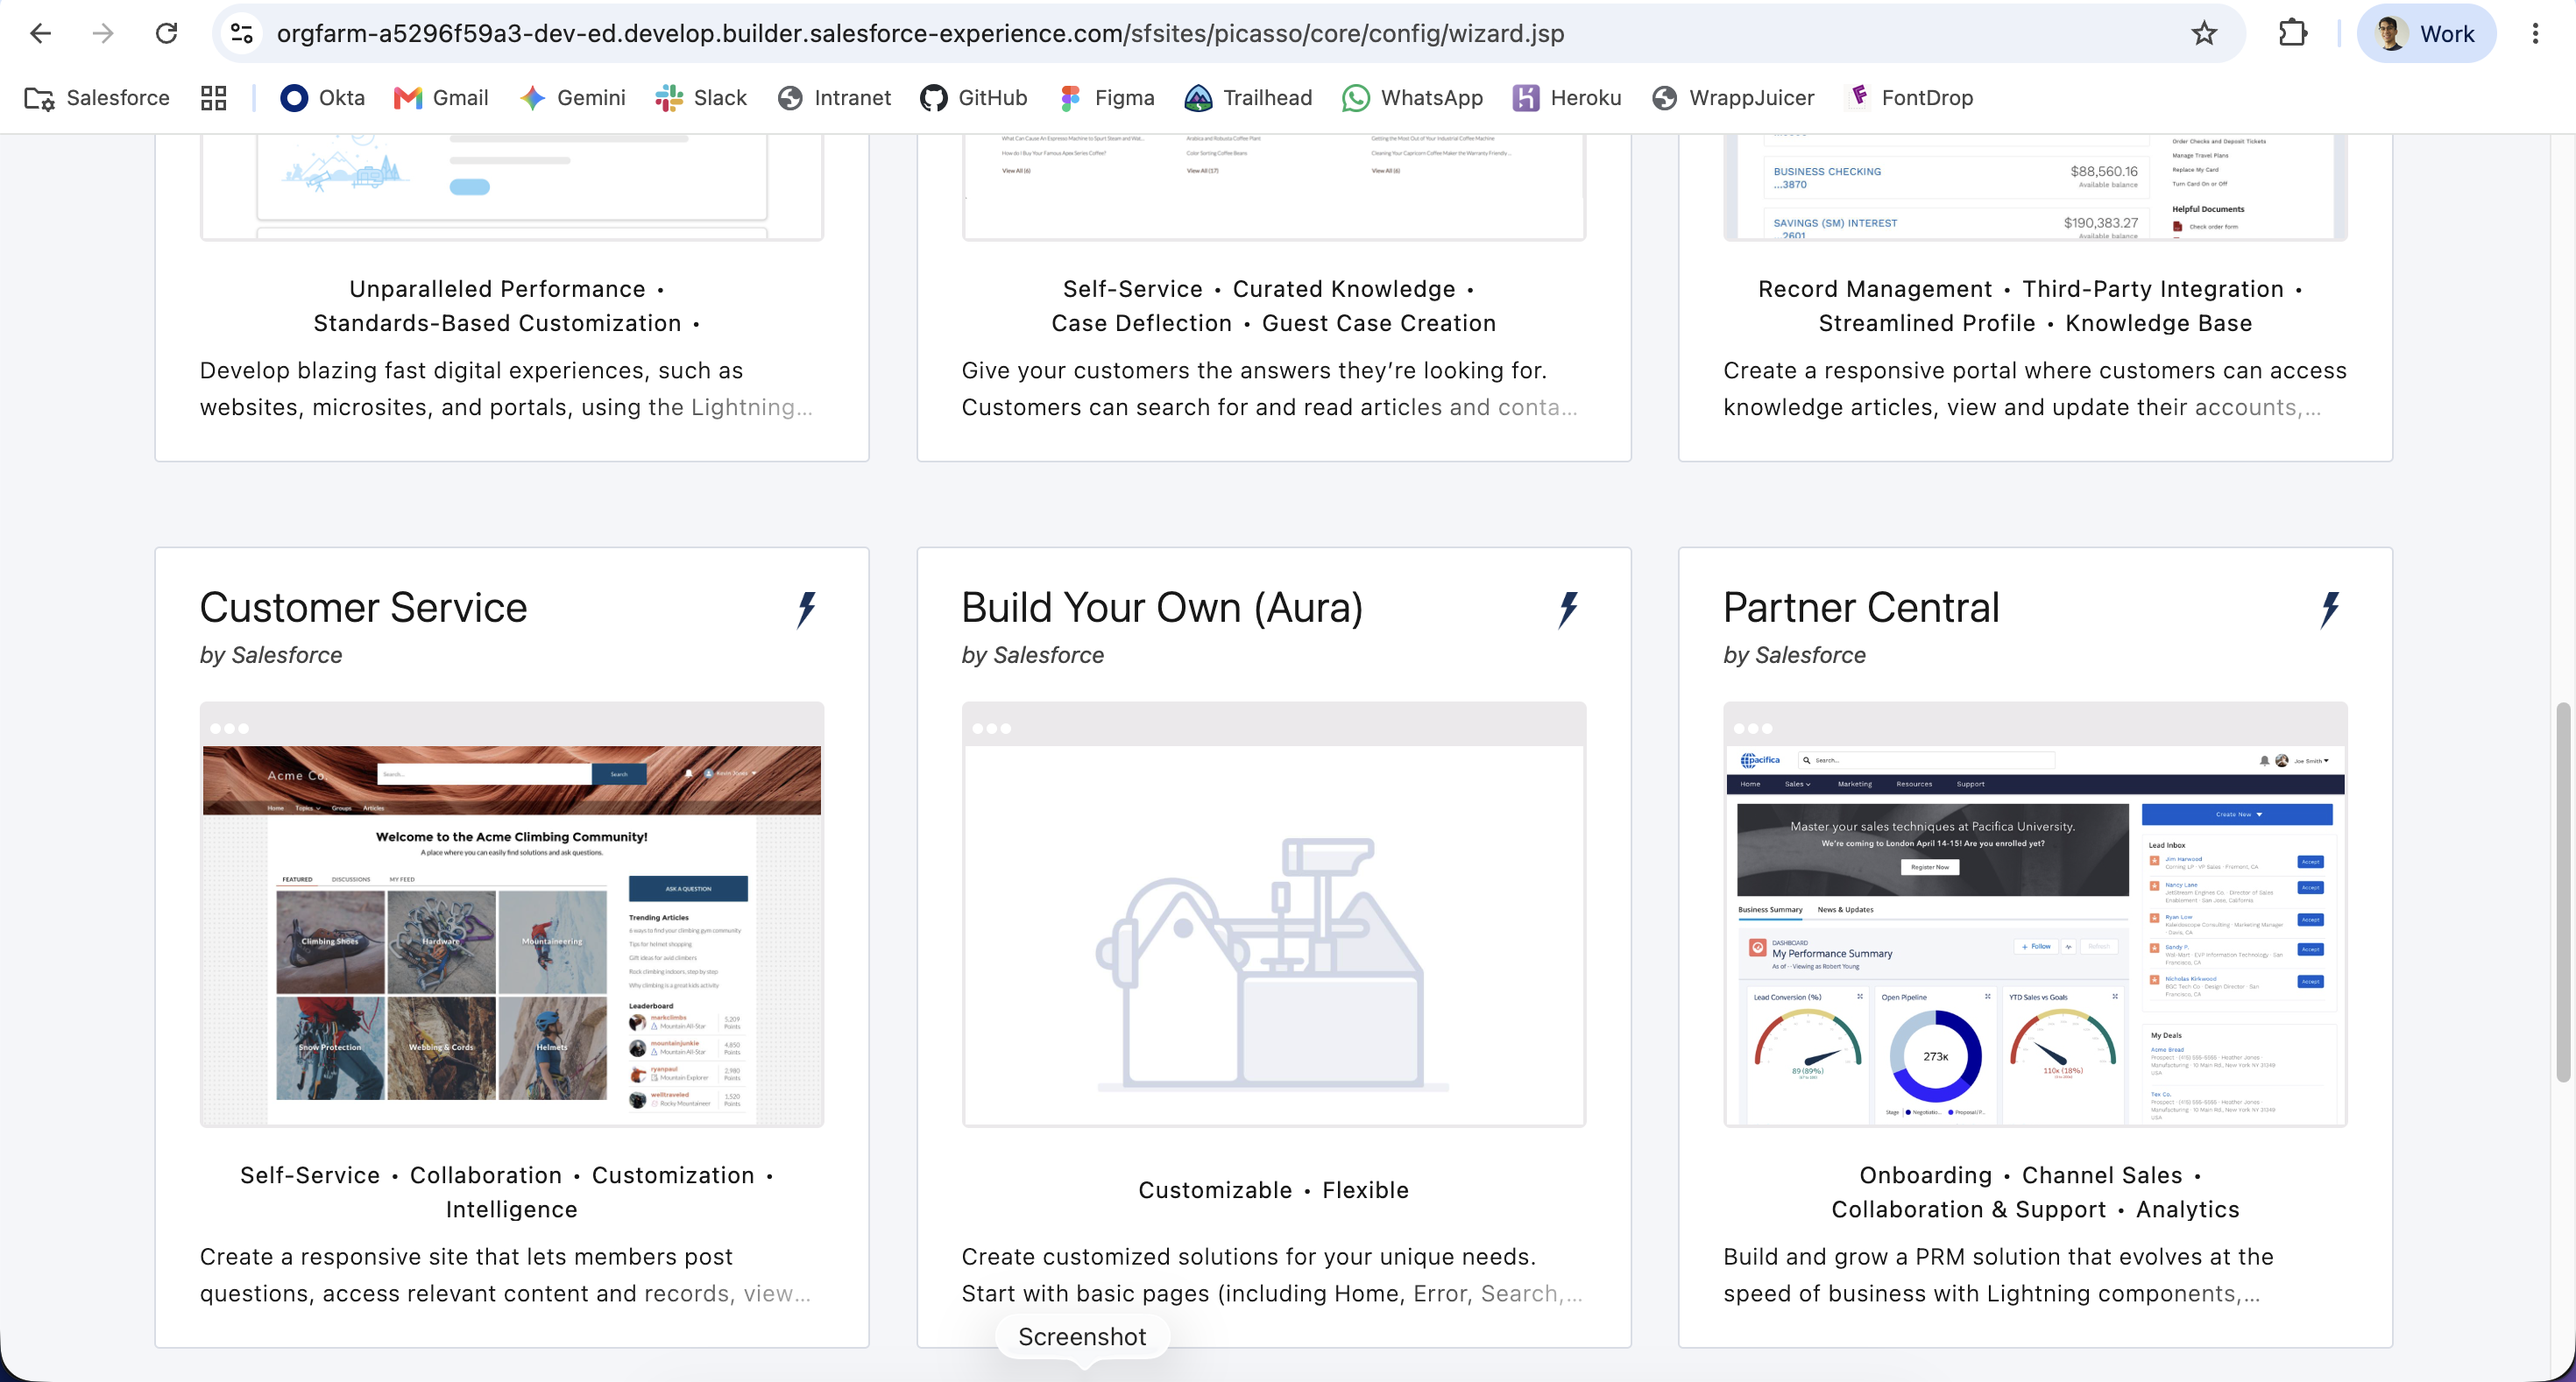
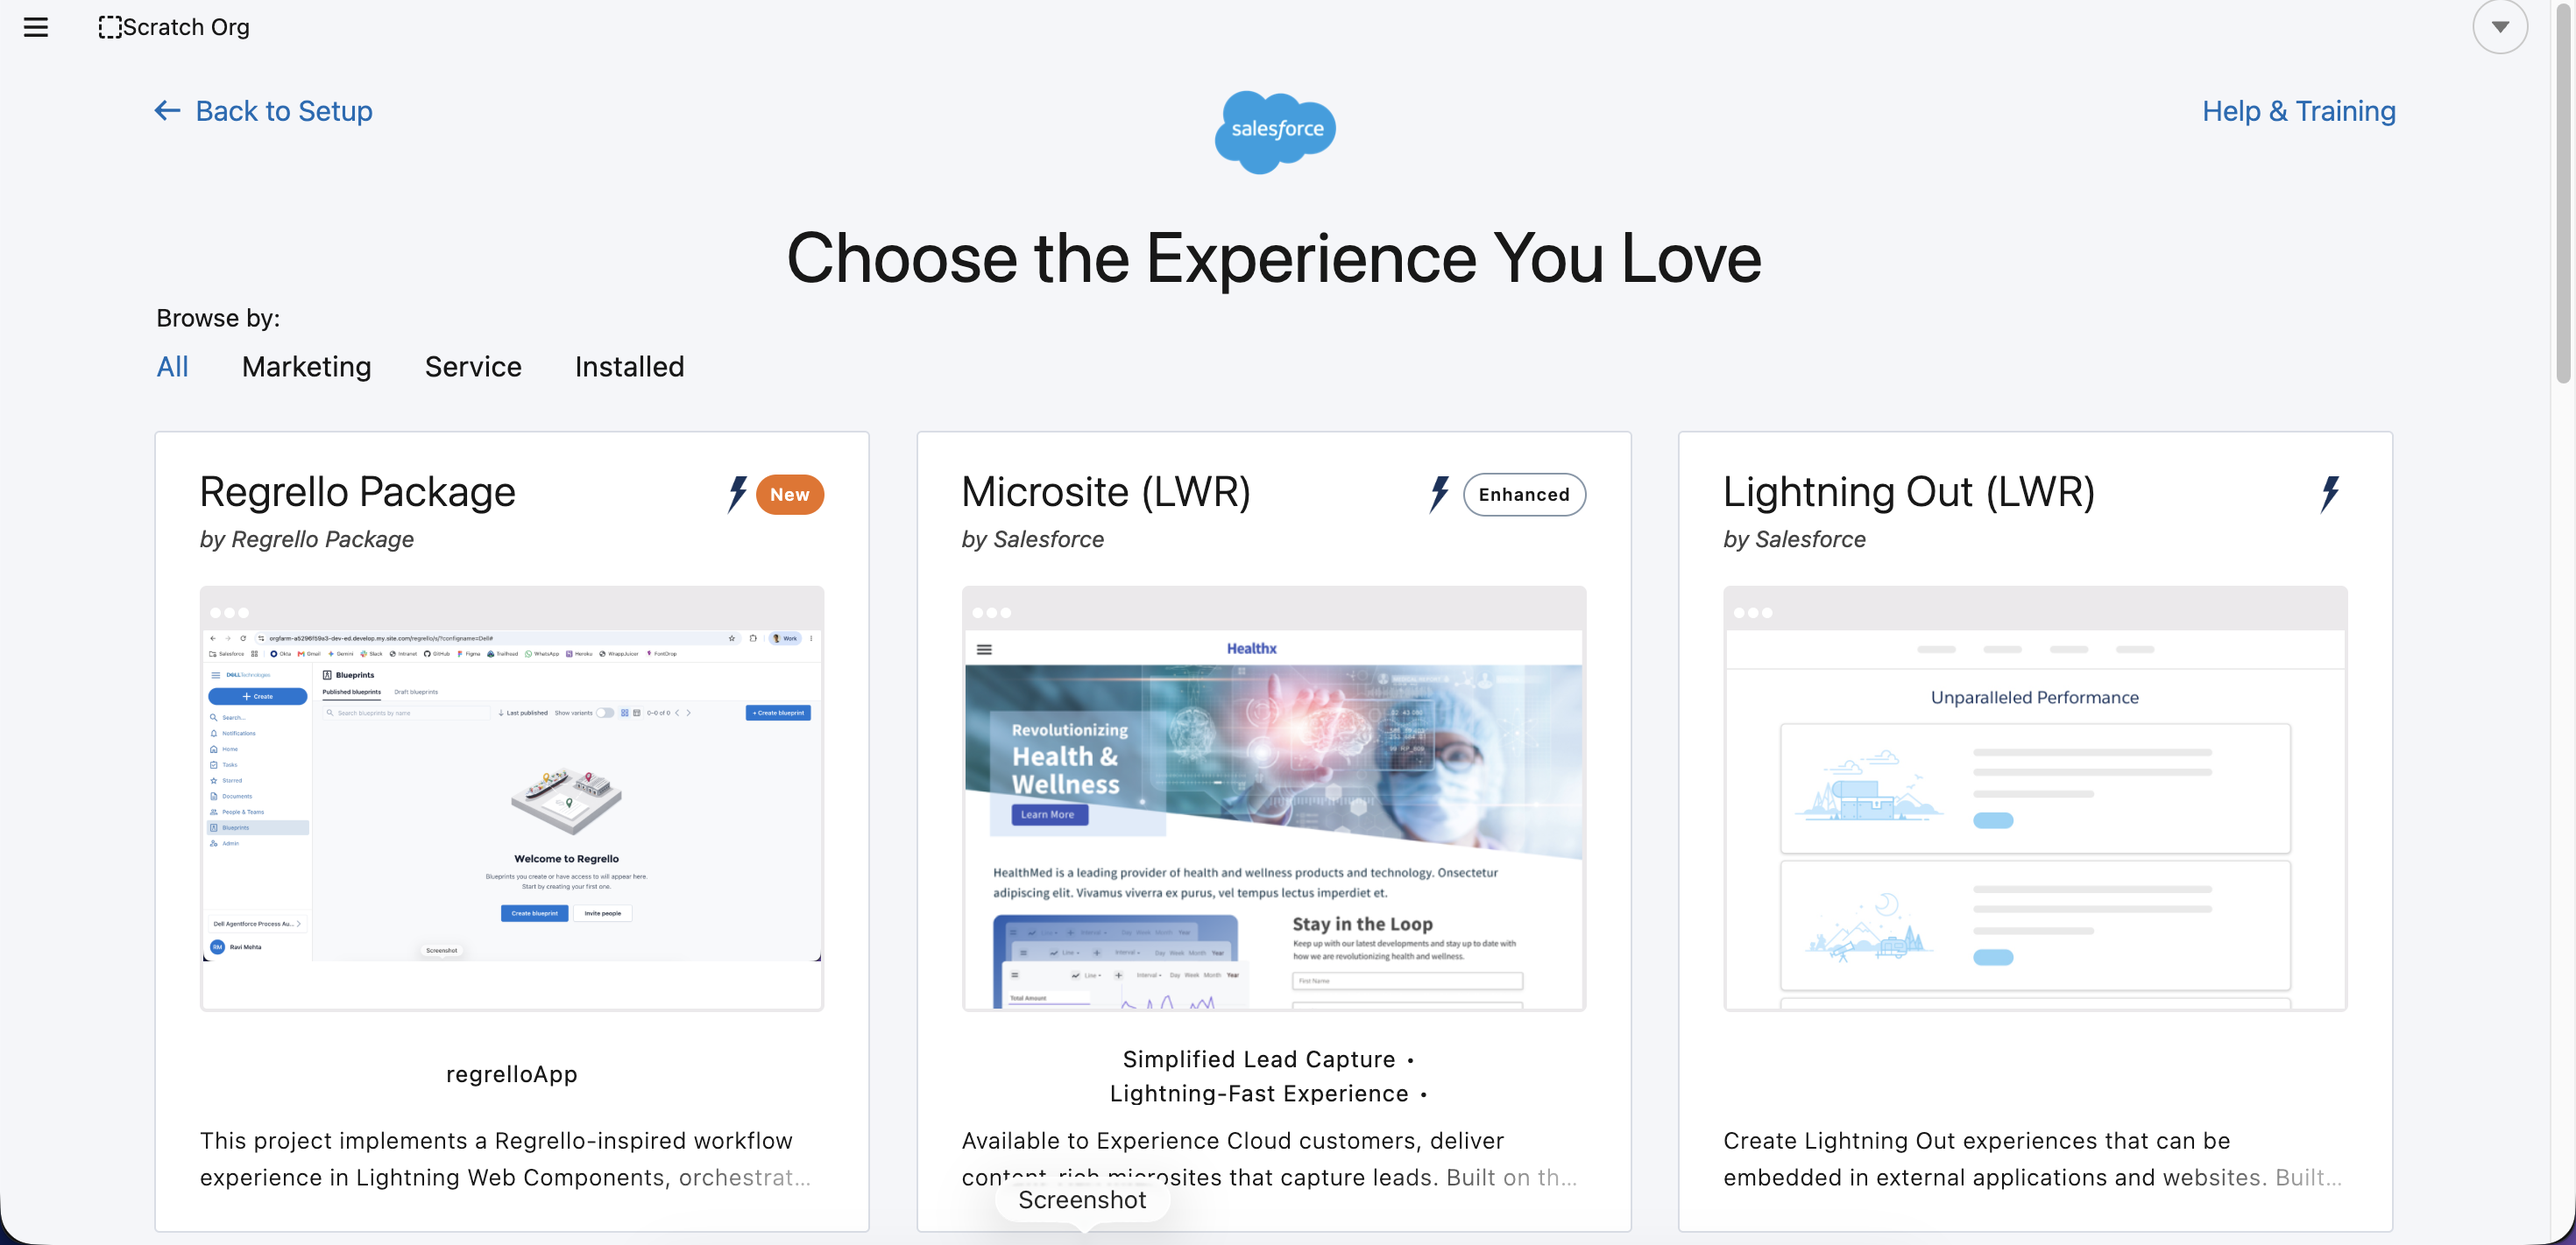
update(Regrello): package version including template

diff --git a/README.md b/README.md
@@ -22,7 +22,7 @@ Before the installation, make sure Communities are enabled in your org. Use the 
 
 Package Installation link (version 1.1, created on Jul 1st 2026): 
 <div style="text-align:center; width: 100%">
-  <a>https://login.salesforce.com/packaging/installPackage.apexp?p0=04tg7000000EH2bAAG</a>
+  <a>https://login.salesforce.com/packaging/installPackage.apexp?p0=04tg7000000EJcHAAW</a>
 </div>
 
 <div style='width: 75%; margin: auto; padding: 12px;';>
@@ -40,7 +40,7 @@ Once the installation is finished, go to All Sites > Digital Experiences and cli
   <img src="images/regrello4.png"/>
 </div>
 
-Select the prebuilt Build Your Own (Aura) template.
+Select the prebuilt Regrello Package template.
 <div style='width: 75%; margin: auto; padding: 12px;';>
   <img src="images/regrello15.png"/>
 </div>
